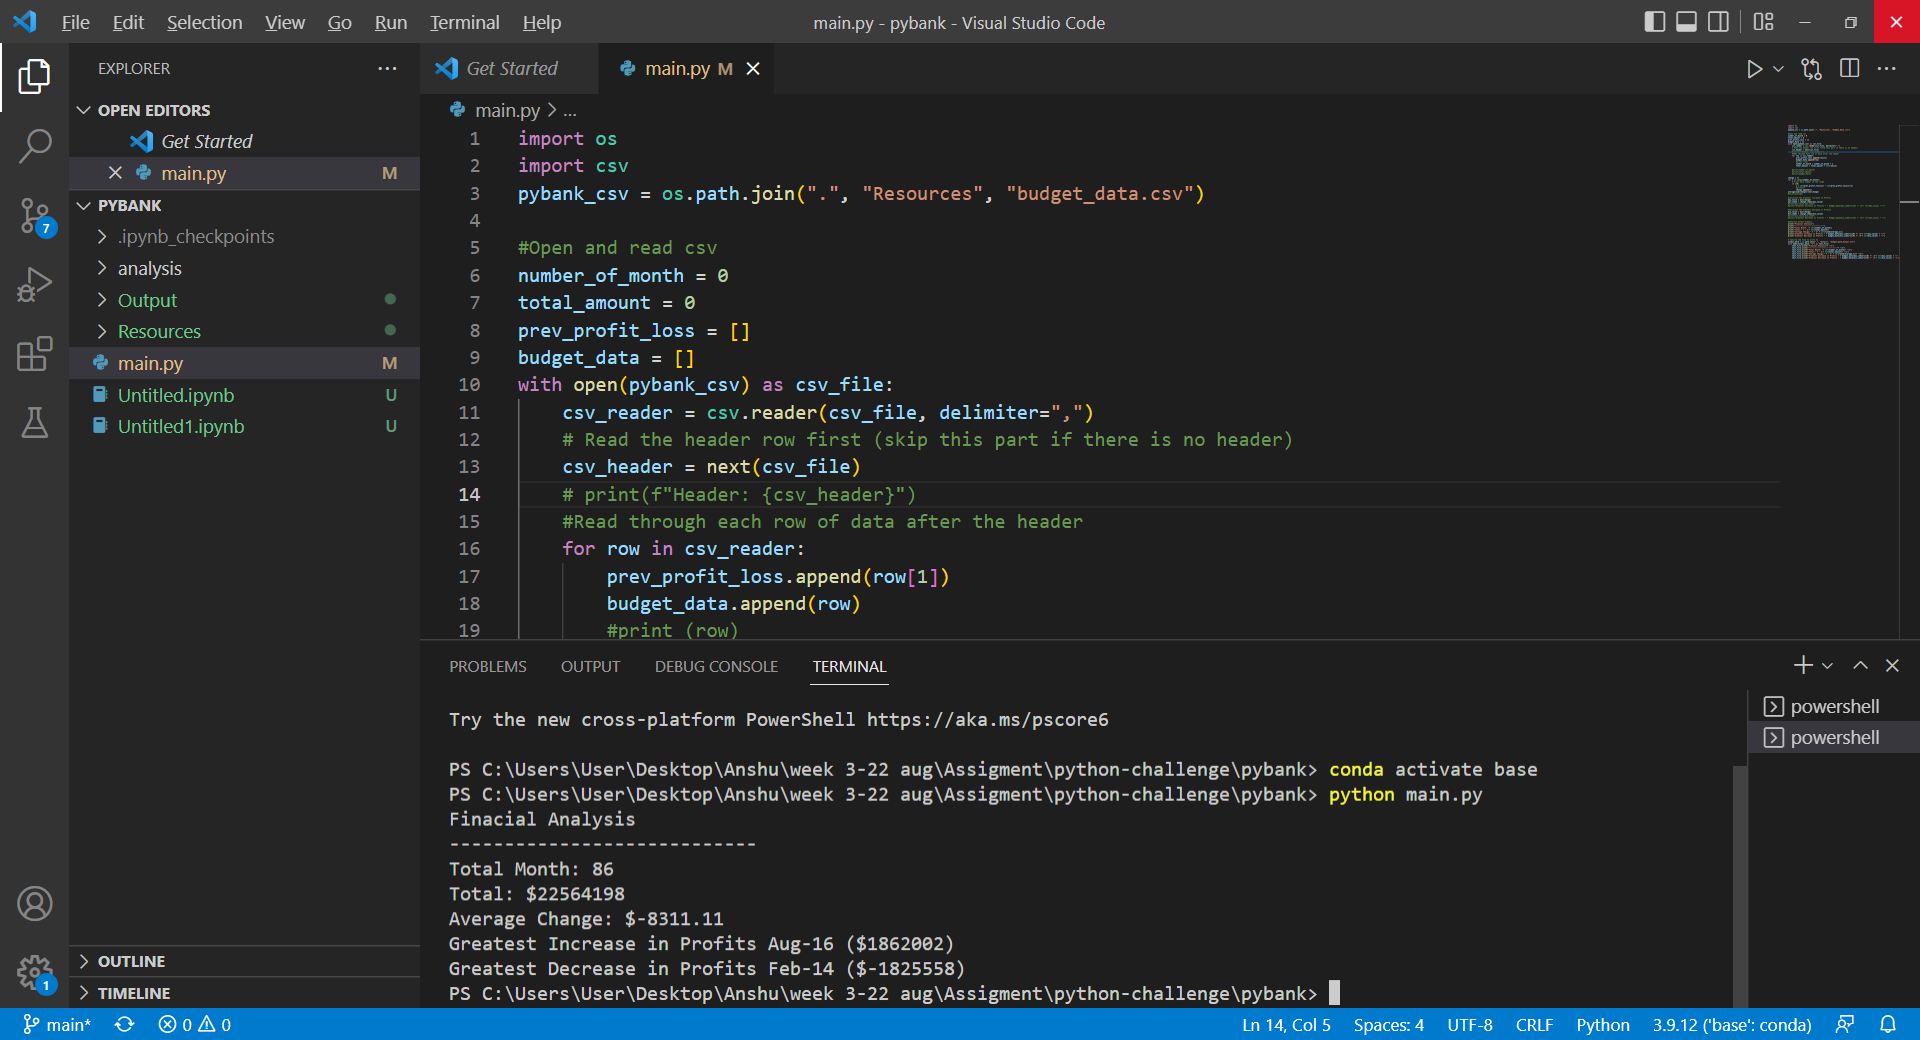
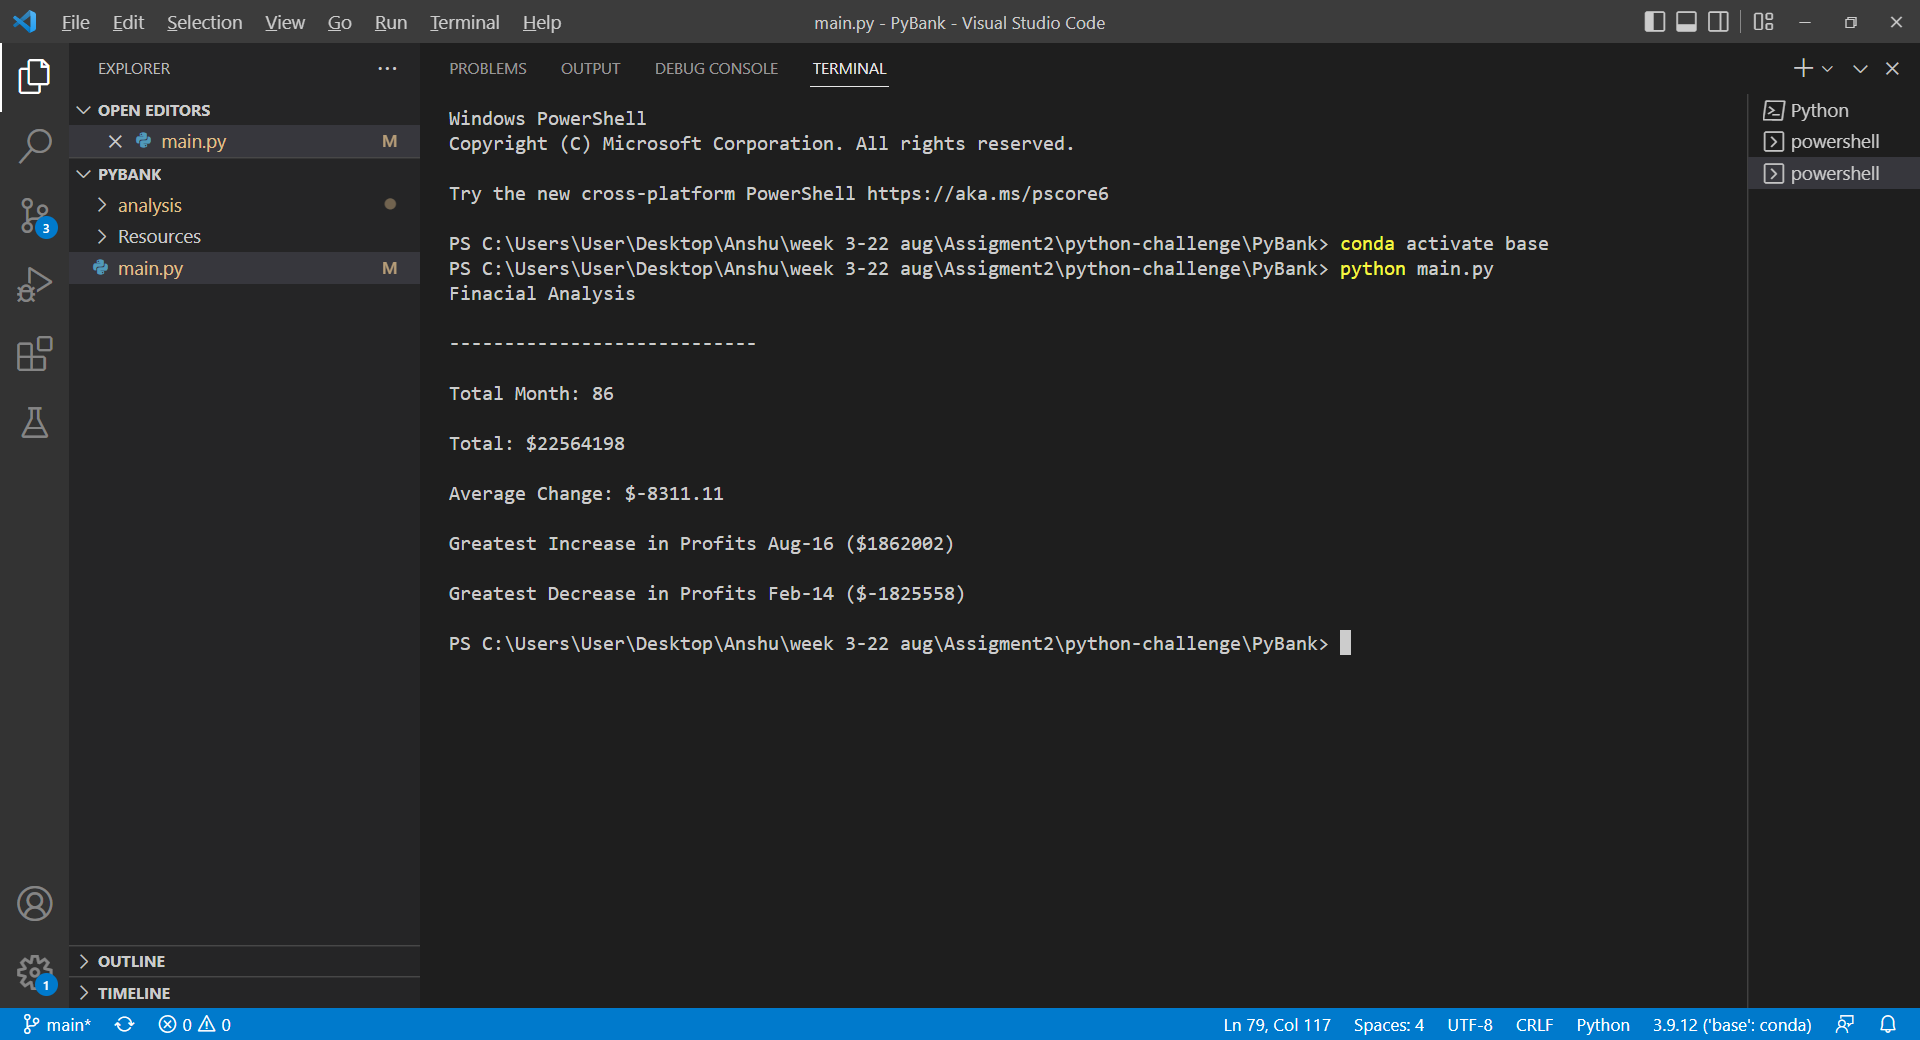
final submission files

diff --git a/PyBank/main.py b/PyBank/main.py
@@ -3,10 +3,16 @@ import csv
 pybank_csv = os.path.join(".", "Resources", "budget_data.csv")
 
 #Open and read csv
+#creating month variable
 number_of_month = 0
+#creating amount variable
 total_amount = 0
+#creating profit loss list
 prev_profit_loss = []
+#creating budget data list
 budget_data = []
+
+#creating reading statment
 with open(pybank_csv) as csv_file:
     csv_reader = csv.reader(csv_file, delimiter=",")
     # Read the header row first (skip this part if there is no header)
@@ -23,46 +29,52 @@ with open(pybank_csv) as csv_file:
     #print(number_of_month)
     #print(total_amount)
     #print(budget_data)
-
+#declaring the list to capture changes profit and loss
 change = []
+#for loop for getting the change 
 for x in range(number_of_month):
     # Print each number in the range
+    #calculating the change in profit and loss
     if x>0:
         z = int(prev_profit_loss[x]) - int(prev_profit_loss[x-1])
         #print(z)
         change.append(z)
+#calculating the average
 average=sum(change)/len(change)    
 #print(average)
 
 #calculate the Greatest increase in Profits
 max_value = max(change)
+#Getting the index Greatest increase in Profits
 max_index = change.index(max_value)
 #print(max_value,max_index)
-#print("Greatest Increase in Profits " + budget_data[max_index+1][0] +" ($"+ str(max_value) +")")
+
 
 #Calculate the Greatest Decrease in Profits
 min_value = min(change)
+#Getting the index Greatest Decrease in Profits
 min_index = change.index(min_value)
 #print(min_value,min_index)
-#print("Greatest Decrease in Profits " + budget_data[min_index+1][0] +" ($"+ str(min_value) + ")")
+
 
 #Generate Output Summary
-print("Finacial Analysis")
-print("----------------------------")
-print("Total Month: "+ str(number_of_month))
-print("Total:" + " $"+ str(total_amount))
-print("Average Change:" + " $" + str(round(average,2)))
-print("Greatest Increase in Profits " + budget_data[max_index+1][0] +" ($"+ str(max_value) + ")")
-print("Greatest Decrease in Profits " + budget_data[min_index+1][0] +" ($"+ str(min_value) + ")")
+print("Finacial Analysis"+ "\n")
+print("----------------------------"+ "\n")
+print("Total Month: "+ str(number_of_month)+ "\n")
+print("Total:" + " $"+ str(total_amount)+ "\n")
+print("Average Change:" + " $" + str(round(average,2))+ "\n")
+print("Greatest Increase in Profits " + budget_data[max_index+1][0] +" ($"+ str(max_value) + ")"+ "\n")
+print("Greatest Decrease in Profits " + budget_data[min_index+1][0] +" ($"+ str(min_value) + ")"+ "\n")
 
 # Specify the file to write to
 output_path = os.path.join(".", "analysis", "budget_data_Output.txt")
 with open(output_path, "w") as text_file:
-    text_file.write("Finacial Analysis"+ "\n")
-    text_file.write("----------------------------"+ "\n")
-    text_file.write("Total Month: "+ str(number_of_month)+ "\n")
-    text_file.write("Total:" + " $"+ str(total_amount)+ "\n")
-    text_file.write("Average Change:" + " $" + str(round(average,2))+ "\n")
-    text_file.write("Greatest Increase in Profits " + budget_data[max_index+1][0] +" ($"+ str(max_value) + ")" + "\n")
-    text_file.write("Greatest Decrease in Profits " + budget_data[min_index+1][0] +" ($"+ str(min_value) + ")")
+    #printing the result in text file
+    text_file.write("Finacial Analysis"+ "\n"+ "\n")
+    text_file.write("----------------------------"+ "\n"+ "\n")
+    text_file.write("Total Month: "+ str(number_of_month)+ "\n"+ "\n")
+    text_file.write("Total:" + " $"+ str(total_amount)+ "\n"+ "\n")
+    text_file.write("Average Change:" + " $" + str(round(average,2))+ "\n"+ "\n")
+    text_file.write("Greatest Increase in Profits " + budget_data[max_index+1][0] +" ($"+ str(max_value) + ")" + "\n"+ "\n")
+    text_file.write("Greatest Decrease in Profits " + budget_data[min_index+1][0] +" ($"+ str(min_value) + ")"+ "\n")
     

diff --git a/PyPoll/main.py b/PyPoll/main.py
@@ -1,9 +1,13 @@
 import os
 import csv
 pypoll_csv = os.path.join(".", "Resources", "election_data.csv")
+#declaring total number of vote variable
 total_number_of_vote = 0
+#declaring total vote variable
 total_vote = 0
+#creating election data list
 election_data = []
+#opening the file for reading
 with open(pypoll_csv) as csv_file:
     csv_reader = csv.reader(csv_file, delimiter=",")
     # Read the header row first (skip this part if there is no header)
@@ -18,8 +22,9 @@ with open(pypoll_csv) as csv_file:
           
       #print(total_number_of_vote)
    
-        
+  #initialize a unique null list      
 unique_list = []
+#creating a function to identifie the unique candidate
 def unique(list1):
   
     # initialize a null list
@@ -36,17 +41,20 @@ def unique(list1):
 unique(election_data)
 #unique_list
 unique_list1 =[]
+#creating the list of votes for candidate1
 for x in election_data:
         # check if exists in unique_list or not
         if x == unique_list[0]:
             unique_list1.append(x)
             
 unique_list2 =[]
+#creating the list of votes for candidate2
 for x in election_data:
         # check if exists in unique_list or not
         if x == unique_list[1]:
             unique_list2.append(x)
 unique_list3 =[]
+#creating the list of votes for candidate3
 for x in election_data:
         # check if exists in unique_list or not
         if x == unique_list[2]:
@@ -61,8 +69,8 @@ per_vote_diana =(num_vote_diana/total_number_of_vote) * 100
 num_vote_raymon = len(unique_list3)
 per_vote_raymon =(num_vote_raymon/total_number_of_vote) * 100
 #print(num_vote_charles,num_vote_diana,num_vote_raymon)
-#Genrate out put summary
 
+#identifying the winner
 if num_vote_charles > num_vote_diana and num_vote_charles > num_vote_raymon:
     winner = "Charles Casper Stockham"
 elif num_vote_diana > num_vote_charles and num_vote_diana > num_vote_raymon:
@@ -71,7 +79,7 @@ elif num_vote_raymon > num_vote_diana and num_vote_raymon >  num_vote_charles:
     winner = "Raymon Anthony Doane"
 else :
     winner = "none"
-
+#printing the summary for terminal
 print("Election Results"+ "\n")
 print("-------------------------"+ "\n")
 print("Total Vote: " + str(total_number_of_vote)+ "\n")
@@ -85,6 +93,7 @@ print("-------------------------"+ "\n")
 # Specify the file to write to
 output_path = os.path.join(".", "analysis","election_result.txt")
 with open(output_path, "w") as text_file:
+    #wrting the summary in file
     text_file.write("Election Results"+ "\n"+ "\n")
     text_file.write("----------------------------"+ "\n"+ "\n")
     text_file.write("Total Vote: " + str(total_number_of_vote)+ "\n"+ "\n")
